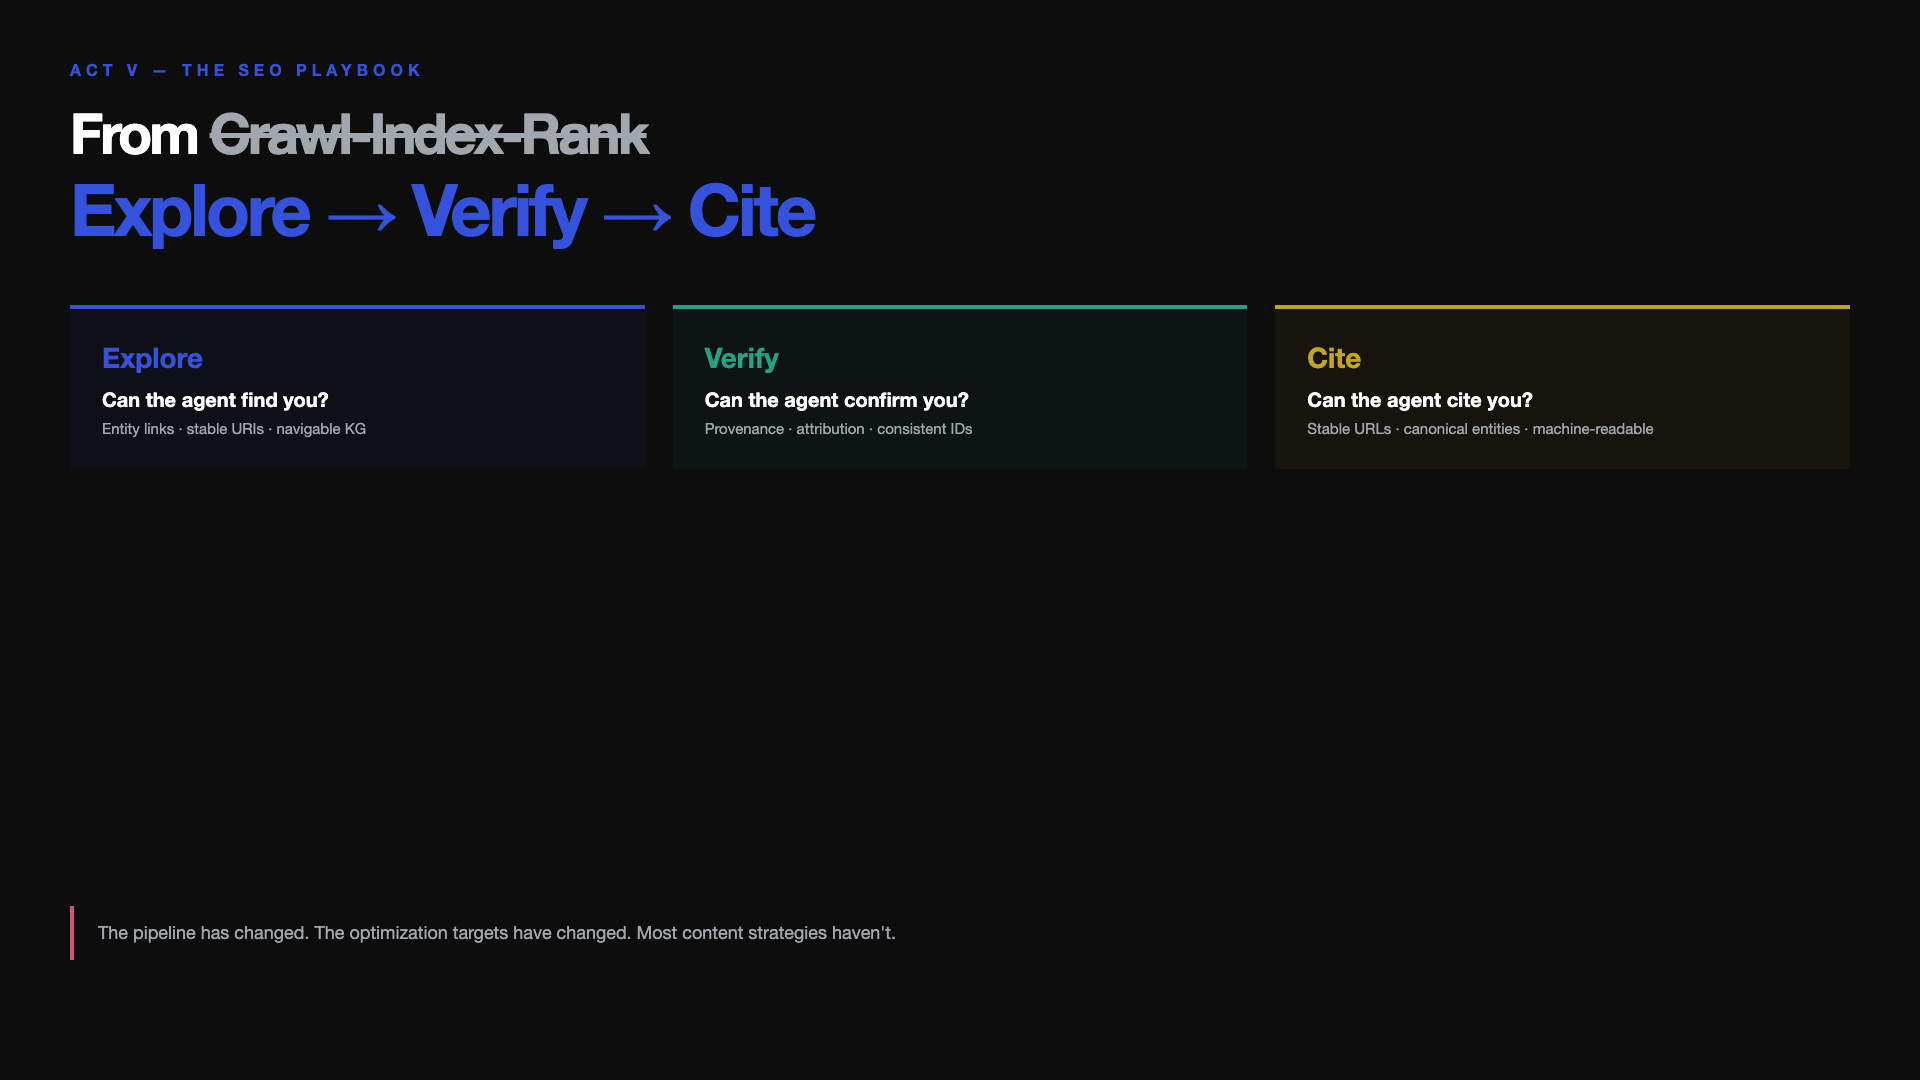
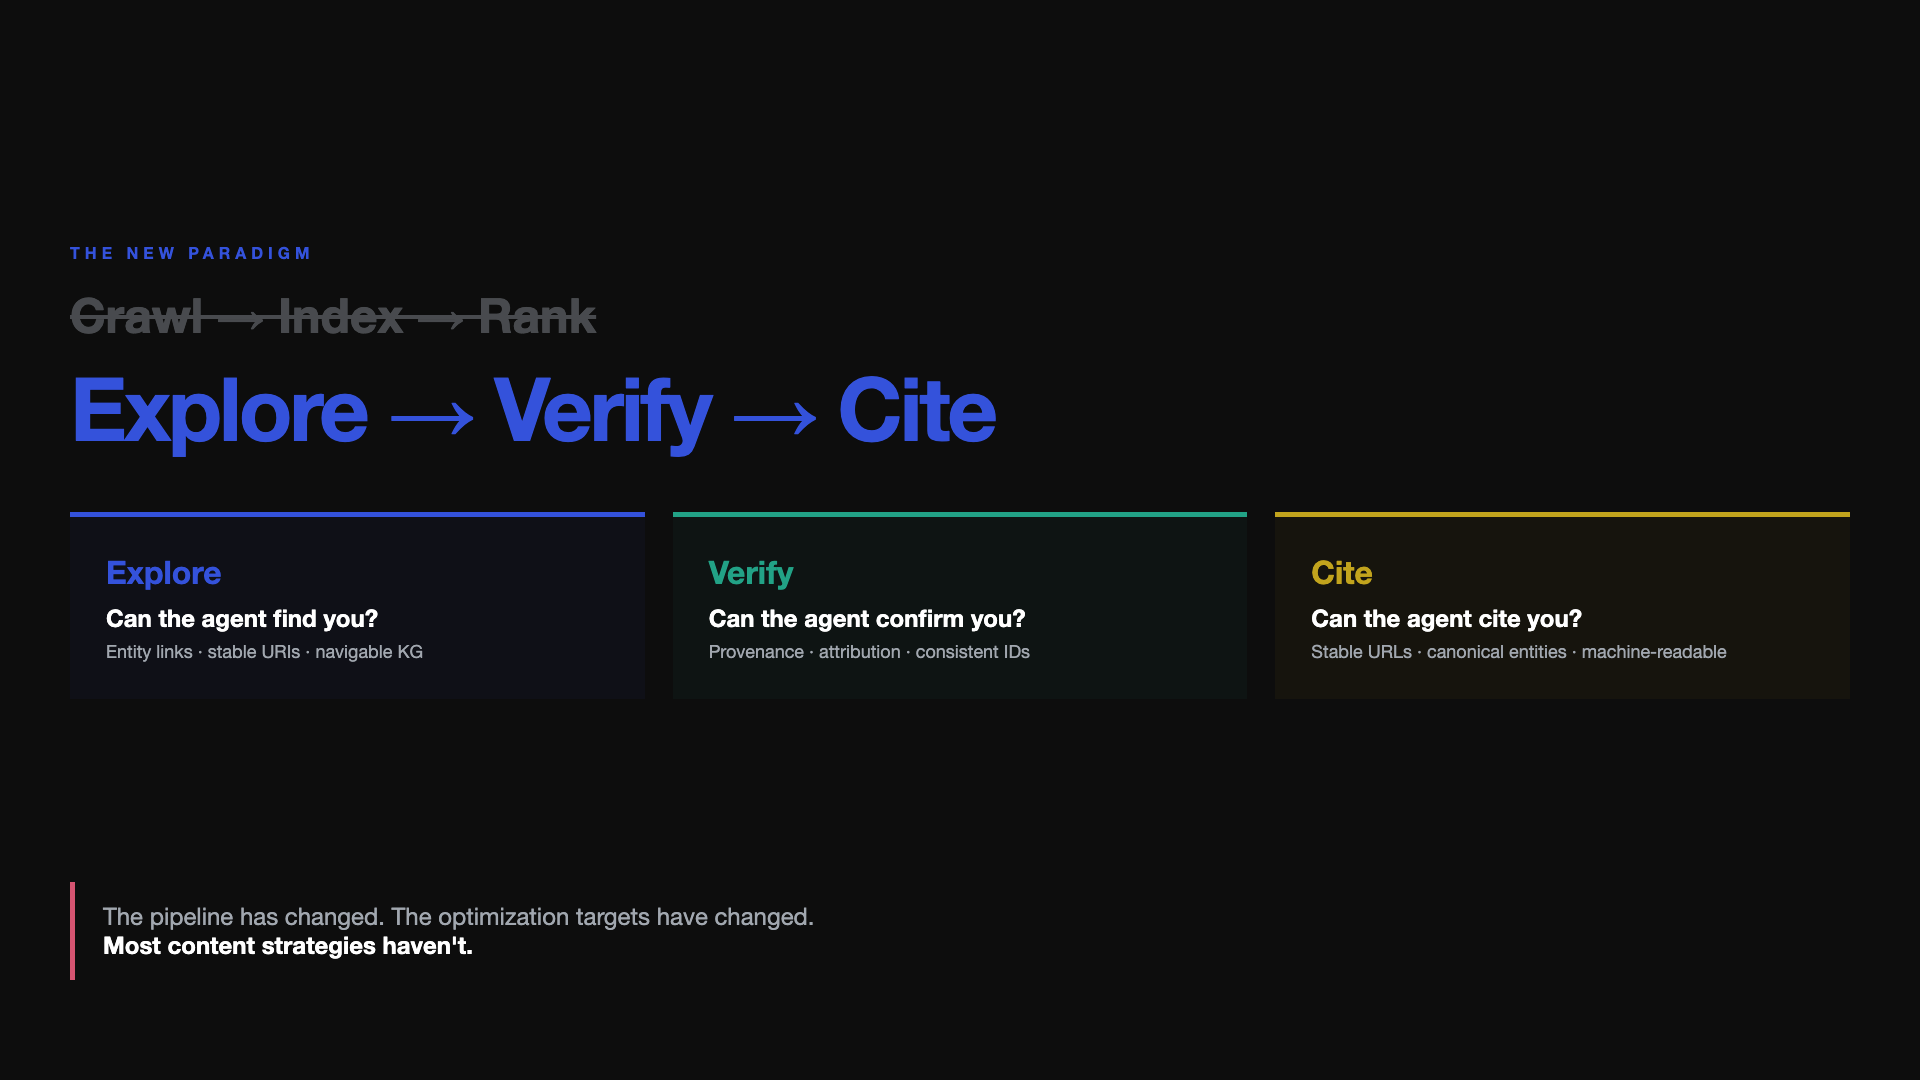
feat: add 5 missing narrative slides from original deck
New slides:
- 04b: Memory Layer Evidence (+29.6% accuracy with structured data)
- 10b: Context Timeline 2017→2026 (512 tokens → infinite)
- 10c: Librarian vs Speed Reader (RLM-on-KG framing)
- 15b: GraphRAG Head-to-Head (RLM 45.8 vs GraphRAG 45.6 F1)
- 27: Elevated Explore→Verify→Cite (paradigm shift treatment)

Deck now 33 slides, still fits 40-minute window.

diff --git a/generate_slides_v2_bold.py b/generate_slides_v2_bold.py
@@ -150,6 +150,37 @@ def slide_04():
     <div style="flex:1;display:flex;flex-direction:column;justify-content:center;">{items}</div>""", ca)
 
 
+def slide_04b():
+    """NEW — Memory Layer Evidence (+29.6%) — LIGHT"""
+    ca = svg_grid(G90s, 30, 6, T['sky'], 0.04, 1400, 400)
+    return light(f"""
+    <div class="section">Act I — The Evidence</div>
+    <div style="font-size:64px;font-weight:900;letter-spacing:-3px;color:{T['dark2']};">
+      Structure Makes AI Smarter</div>
+    <div style="font-size:24px;color:{T['gray']};margin-top:8px;">3-tier experiment: how structured data changes retrieval accuracy</div>
+    <div style="display:flex;gap:28px;margin-top:48px;">
+      <div style="flex:1;padding:36px;border-top:5px solid {T['gray']};">
+        <div style="font-size:16px;font-weight:700;color:{T['gray']};letter-spacing:4px;text-transform:uppercase;margin-bottom:16px;">Layer 1</div>
+        <div style="font-size:28px;font-weight:900;margin-bottom:8px;">Plain HTML</div>
+        <div style="font-size:22px;color:{T['gray']};">Baseline accuracy</div>
+        <div style="font-size:64px;font-weight:900;color:{T['gray']};margin-top:16px;">—</div></div>
+      <div style="flex:1;padding:36px;border-top:5px solid {T['sand']};">
+        <div style="font-size:16px;font-weight:700;color:{T['sand']};letter-spacing:4px;text-transform:uppercase;margin-bottom:16px;">Layer 2</div>
+        <div style="font-size:28px;font-weight:900;margin-bottom:8px;">+ JSON-LD</div>
+        <div style="font-size:22px;color:{T['gray']};">Modest improvement</div>
+        <div style="font-size:64px;font-weight:900;color:{T['sand']};margin-top:16px;">+modest</div></div>
+      <div style="flex:1;padding:36px;border-top:5px solid {T['sky']};background:rgba(52,82,219,0.03);">
+        <div style="font-size:16px;font-weight:700;color:{T['sky']};letter-spacing:4px;text-transform:uppercase;margin-bottom:16px;">Layer 3</div>
+        <div style="font-size:28px;font-weight:900;margin-bottom:8px;">Enhanced Entity Pages</div>
+        <div style="font-size:22px;color:{T['gray']};">Standard RAG + Agentic RAG</div>
+        <div style="font-size:80px;font-weight:900;color:{T['sky']};margin-top:16px;letter-spacing:-4px;">+29.6%</div></div>
+    </div>
+    <div style="padding:16px 24px;border-left:5px solid {T['berry']};margin-top:auto;margin-bottom:40px;">
+      <div style="font-size:22px;color:{T['gray']};font-style:italic;">
+        The same content. The same model. The only variable was structure.</div>
+    </div>""", ca)
+
+
 # ═══════════════════════════════════════════════════════════
 # ACT II — COMPRESSION (5–10)
 # ═══════════════════════════════════════════════════════════
@@ -277,6 +308,67 @@ def slide_10():
 # ═══════════════════════════════════════════════════════════
 # ACT III — THE NAVIGATOR (11–17)
 # ═══════════════════════════════════════════════════════════
+
+def slide_10b():
+    """NEW — Context Timeline 2017→Today — DARK"""
+    ca = svg_grid(G30, 50, 10, T['sky'], 0.06, 0, 400)
+    return dark(f"""
+    <div class="section">Act III — The Navigator</div>
+    <div class="h" style="font-size:72px;margin-bottom:48px;">The Context Explosion<br>in Numbers</div>
+    <div style="flex:1;display:flex;flex-direction:column;justify-content:center;">
+    <div style="display:flex;gap:24px;align-items:flex-end;">
+      <div style="flex:1;text-align:center;">
+        <div style="font-size:22px;color:{T['gray']};margin-bottom:8px;">2017</div>
+        <div style="height:60px;background:{T['gray']};opacity:0.3;border-radius:4px 4px 0 0;"></div>
+        <div style="font-size:18px;color:{T['gray']};margin-top:8px;">512 tokens</div>
+        <div style="font-size:14px;color:{T['gray']};opacity:0.5;">First WordLift model</div></div>
+      <div style="flex:1;text-align:center;">
+        <div style="font-size:22px;color:{T['gray']};margin-bottom:8px;">2020</div>
+        <div style="height:100px;background:{T['gray']};opacity:0.4;border-radius:4px 4px 0 0;"></div>
+        <div style="font-size:18px;color:{T['gray']};margin-top:8px;">4K tokens</div>
+        <div style="font-size:14px;color:{T['gray']};opacity:0.5;">GPT-3</div></div>
+      <div style="flex:1;text-align:center;">
+        <div style="font-size:22px;color:{T['gray']};margin-bottom:8px;">2023</div>
+        <div style="height:200px;background:{T['sand']};opacity:0.5;border-radius:4px 4px 0 0;"></div>
+        <div style="font-size:18px;color:{T['gray']};margin-top:8px;">128K tokens</div>
+        <div style="font-size:14px;color:{T['gray']};opacity:0.5;">GPT-4 Turbo</div></div>
+      <div style="flex:1;text-align:center;">
+        <div style="font-size:22px;color:{T['gray']};margin-bottom:8px;">2024</div>
+        <div style="height:340px;background:{T['sky']};opacity:0.6;border-radius:4px 4px 0 0;"></div>
+        <div style="font-size:18px;color:{T['gray']};margin-top:8px;">1M+ tokens</div>
+        <div style="font-size:14px;color:{T['gray']};opacity:0.5;">Gemini</div></div>
+      <div style="flex:1;text-align:center;">
+        <div style="font-size:22px;color:{T['sky']};font-weight:700;margin-bottom:8px;">2026</div>
+        <div style="height:420px;background:{T['sky']};border-radius:4px 4px 0 0;"></div>
+        <div style="font-size:20px;font-weight:700;color:{T['sky']};margin-top:8px;">∞ context</div>
+        <div style="font-size:14px;color:{T['sky']};opacity:0.7;">The question is now traversal</div></div>
+    </div>
+    </div>
+    <div style="font-size:22px;color:{T['gray']};margin-bottom:40px;">
+      <span style="color:{T['white']};font-weight:700;">Context windows grew 2,000,000×.</span> The question shifted from capacity to navigation.</div>""", ca)
+
+def slide_10c():
+    """NEW — Librarian vs Speed Reader — DARK"""
+    ca = svg_grid(G110, 40, 8, T['sky'], 0.06, T['W']-50*8, 300)
+    return dark(f"""
+    <div class="section">Act III — The Navigator</div>
+    <div class="h" style="font-size:72px;margin-bottom:auto;">Context Is Not a Bucket<br>to Fill. It's an Environment<br>to Explore.</div>
+    <div style="display:flex;gap:40px;margin-bottom:60px;">
+      <div style="flex:1;padding:40px;border-top:5px solid {T['gray']};">
+        <div style="font-size:16px;font-weight:700;color:{T['gray']};letter-spacing:4px;text-transform:uppercase;margin-bottom:20px;text-decoration:line-through;">Speed Reader</div>
+        <div style="font-size:28px;font-weight:900;color:{T['gray']};margin-bottom:12px;">Traditional LLM</div>
+        <div style="font-size:22px;color:{T['gray']};line-height:1.8;">
+          Scans everything sequentially<br>
+          Misses connections between sections<br>
+          Loses context in long documents</div></div>
+      <div style="flex:1;padding:40px;border-top:5px solid {T['sky']};background:rgba(52,82,219,0.05);">
+        <div style="font-size:16px;font-weight:700;color:{T['sky']};letter-spacing:4px;text-transform:uppercase;margin-bottom:20px;">Librarian</div>
+        <div style="font-size:28px;font-weight:900;color:{T['sky']};margin-bottom:12px;">RLM-on-KG</div>
+        <div style="font-size:22px;color:{T['gray']};line-height:1.8;">
+          Navigates the catalog of knowledge<br>
+          Follows structural entity links<br>
+          Finds what's connected, not just similar</div></div>
+    </div>""", ca)
 
 def slide_11():
     ca = svg_grid(G110, 70, 14, T['sky'], 0.25, 0, 0)
@@ -411,6 +503,28 @@ def slide_15():
     <div class="bar" style="width:50px;background:{T['sky']};margin-top:40px;"></div>
     <div style="font-size:22px;color:{T['gray']};margin-top:16px;">
       The right model with the right graph beats a bigger model without one</div>""", ca)
+
+def slide_15b():
+    """NEW — GraphRAG Head-to-Head Benchmark — LIGHT"""
+    ca = svg_grid(G110s, 25, 6, T['sky'], 0.04, 1500, 200)
+    return light(f"""
+    <div class="section">Act III — The Navigator</div>
+    <div style="font-size:64px;font-weight:900;letter-spacing:-3px;color:{T['dark2']};">Head-to-Head:<br>RLM vs GraphRAG</div>
+    <div style="font-size:24px;color:{T['gray']};margin-top:8px;">Same benchmark. Same knowledge graph. Different approach.</div>
+    <div style="display:flex;gap:40px;margin-top:48px;">
+      <div style="flex:1;padding:40px;border-top:5px solid {T['sky']};background:rgba(52,82,219,0.03);">
+        <div style="font-size:20px;font-weight:700;color:{T['sky']};letter-spacing:3px;text-transform:uppercase;margin-bottom:16px;">RLM-on-KG</div>
+        <div style="font-size:100px;font-weight:900;color:{T['sky']};line-height:0.9;letter-spacing:-5px;">45.8</div>
+        <div style="font-size:22px;color:{T['gray']};margin-top:8px;">F1 Score</div></div>
+      <div style="flex:1;padding:40px;border-top:5px solid {T['gray']};">
+        <div style="font-size:20px;font-weight:700;color:{T['gray']};letter-spacing:3px;text-transform:uppercase;margin-bottom:16px;">Microsoft GraphRAG</div>
+        <div style="font-size:100px;font-weight:900;color:{T['gray']};line-height:0.9;letter-spacing:-5px;">45.6</div>
+        <div style="font-size:22px;color:{T['gray']};margin-top:8px;">F1 Score</div></div>
+    </div>
+    <div class="bar" style="width:70px;background:{T['berry']};margin-top:40px;"></div>
+    <div style="font-size:24px;color:{T['gray']};margin-top:16px;">
+      When evidence is scattered across <span style="color:{T['sky']};font-weight:700;">11+ chunks</span>:
+      RLM wins <span style="color:{T['sky']};font-weight:700;">56%</span> of the time</div>""", ca)
 
 def slide_17():
     """NEW — Distillation Bridge — BOLD, minimal"""
@@ -646,30 +760,33 @@ def slide_26():
     </div>""", ca)
 
 def slide_27():
-    """Explore → Verify → Cite — DARK"""
+    """Explore → Verify → Cite — ELEVATED paradigm shift — DARK"""
     ca = svg_grid(G110, 55, 10, T['sky'], 0.10, T['W']-60*10, 0)
     return dark(f"""
-    <div class="section">Act V — The SEO Playbook</div>
-    <div class="h" style="font-size:56px;margin-bottom:8px;">
-      From <span style="text-decoration:line-through;color:{T['gray']};">Crawl-Index-Rank</span></div>
-    <div class="h" style="font-size:72px;color:{T['sky']};margin-bottom:56px;">Explore → Verify → Cite</div>
-    <div style="display:flex;gap:28px;">
-      <div style="flex:1;padding:32px;border-top:4px solid {T['sky']};background:rgba(52,82,219,0.05);">
-        <div style="font-size:28px;font-weight:900;color:{T['sky']};margin-bottom:12px;">Explore</div>
-        <div style="font-size:20px;font-weight:700;margin-bottom:8px;">Can the agent find you?</div>
-        <div style="font-size:15px;color:{T['gray']};">Entity links · stable URIs · navigable KG</div></div>
-      <div style="flex:1;padding:32px;border-top:4px solid {T['leaf']};background:rgba(34,162,134,0.05);">
-        <div style="font-size:28px;font-weight:900;color:{T['leaf']};margin-bottom:12px;">Verify</div>
-        <div style="font-size:20px;font-weight:700;margin-bottom:8px;">Can the agent confirm you?</div>
-        <div style="font-size:15px;color:{T['gray']};">Provenance · attribution · consistent IDs</div></div>
-      <div style="flex:1;padding:32px;border-top:4px solid {T['sand']};background:rgba(194,164,29,0.05);">
-        <div style="font-size:28px;font-weight:900;color:{T['sand']};margin-bottom:12px;">Cite</div>
-        <div style="font-size:20px;font-weight:700;margin-bottom:8px;">Can the agent cite you?</div>
-        <div style="font-size:15px;color:{T['gray']};">Stable URLs · canonical entities · machine-readable</div></div>
+    <div style="flex:1;display:flex;flex-direction:column;justify-content:center;">
+      <div class="section">The New Paradigm</div>
+      <div style="font-size:48px;font-weight:900;text-decoration:line-through;color:{T['gray']};opacity:0.4;margin-bottom:16px;">
+        Crawl → Index → Rank</div>
+      <div class="h" style="font-size:88px;color:{T['sky']};margin-bottom:56px;">Explore → Verify → Cite</div>
+      <div style="display:flex;gap:28px;">
+        <div style="flex:1;padding:36px;border-top:5px solid {T['sky']};background:rgba(52,82,219,0.05);">
+          <div style="font-size:32px;font-weight:900;color:{T['sky']};margin-bottom:12px;">Explore</div>
+          <div style="font-size:24px;font-weight:700;margin-bottom:8px;">Can the agent find you?</div>
+          <div style="font-size:18px;color:{T['gray']};">Entity links · stable URIs · navigable KG</div></div>
+        <div style="flex:1;padding:36px;border-top:5px solid {T['leaf']};background:rgba(34,162,134,0.05);">
+          <div style="font-size:32px;font-weight:900;color:{T['leaf']};margin-bottom:12px;">Verify</div>
+          <div style="font-size:24px;font-weight:700;margin-bottom:8px;">Can the agent confirm you?</div>
+          <div style="font-size:18px;color:{T['gray']};">Provenance · attribution · consistent IDs</div></div>
+        <div style="flex:1;padding:36px;border-top:5px solid {T['sand']};background:rgba(194,164,29,0.05);">
+          <div style="font-size:32px;font-weight:900;color:{T['sand']};margin-bottom:12px;">Cite</div>
+          <div style="font-size:24px;font-weight:700;margin-bottom:8px;">Can the agent cite you?</div>
+          <div style="font-size:18px;color:{T['gray']};">Stable URLs · canonical entities · machine-readable</div></div>
+      </div>
     </div>
-    <div style="padding:16px 24px;border-left:4px solid {T['berry']};margin-top:auto;margin-bottom:60px;">
-      <div style="font-size:18px;color:{T['gray']};">
-        The pipeline has changed. The optimization targets have changed. Most content strategies haven't.</div>
+    <div style="padding:20px 28px;border-left:5px solid {T['berry']};margin-bottom:40px;">
+      <div style="font-size:24px;color:{T['gray']};">
+        The pipeline has changed. The optimization targets have changed.<br>
+        <span style="color:{T['white']};font-weight:700;">Most content strategies haven't.</span></div>
     </div>""", ca)
 
 def slide_28():
@@ -748,12 +865,15 @@ def slide_30():
 ALL_SLIDES = [
     ("01_title.png", slide_01), ("02_weight_problem.png", slide_02),
     ("03_query_to_journey.png", slide_03), ("04_three_shifts.png", slide_04),
+    ("04b_memory_layer.png", slide_04b),
     ("05_compression_paradox.png", slide_05), ("06_turboquant.png", slide_06),
     ("07_silent_ranking.png", slide_07), ("08_zero_bias.png", slide_08),
     ("09_quant_landscape.png", slide_09), ("10_turbo_demo.png", slide_10),
+    ("10b_context_timeline.png", slide_10b), ("10c_librarian.png", slide_10c),
     ("11_navigator.png", slide_11), ("12_rlm_demo.png", slide_12),
     ("13_conditional_advantage.png", slide_13), ("14_separation.png", slide_14),
-    ("15_model_gap.png", slide_15), ("17_distillation.png", slide_17),
+    ("15_model_gap.png", slide_15), ("15b_graphrag.png", slide_15b),
+    ("17_distillation.png", slide_17),
     ("18_slm_edge.png", slide_18), ("19_connected_data.png", slide_19),
     ("20_floor_set.png", slide_20), ("21_moat_graph.png", slide_21),
     ("22_seo_playbook_chapter.png", slide_22), ("23_visibility_shift.png", slide_23),

diff --git a/build_google_slides.py b/build_google_slides.py
@@ -21,9 +21,14 @@ REPO = "https://raw.githubusercontent.com/cyberandy/infinite-context/main"
 # ── Slide order (matches slides_v2/) ──────────────────
 SLIDES = [
     "01_title", "02_weight_problem", "03_query_to_journey", "04_three_shifts",
+    "04b_memory_layer",
     "05_compression_paradox", "06_turboquant", "07_silent_ranking", "08_zero_bias",
-    "09_quant_landscape", "10_turbo_demo", "11_navigator", "12_rlm_demo",
-    "13_conditional_advantage", "14_separation", "15_model_gap", "17_distillation",
+    "09_quant_landscape", "10_turbo_demo",
+    "10b_context_timeline", "10c_librarian",
+    "11_navigator", "12_rlm_demo",
+    "13_conditional_advantage", "14_separation", "15_model_gap",
+    "15b_graphrag",
+    "17_distillation",
     "18_slm_edge", "19_connected_data", "20_floor_set", "21_moat_graph",
     "22_seo_playbook_chapter", "23_visibility_shift", "24_ghost_citations",
     "25_gpt_reads_differently", "26_consistency_not_crawling", "27_explore_verify_cite",
